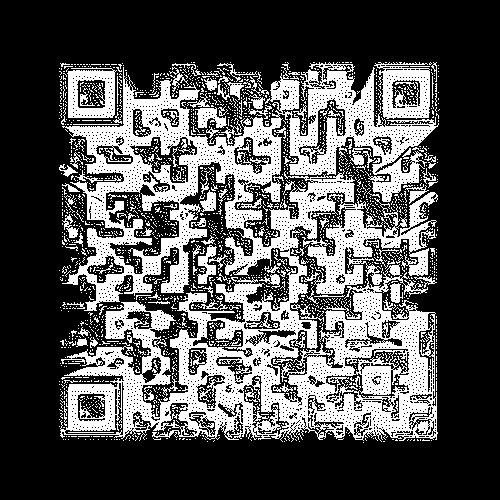
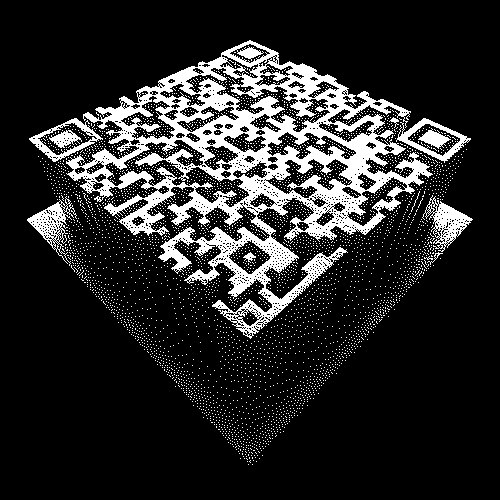
better image

diff --git a/src/retrospective.html b/src/retrospective.html
@@ -158,7 +158,7 @@
                     image: "./projects/unscanable.png",
                     title: "unscannable",
                     author: "calvin lang",
-                    text: "a 3 dimensional qr code that can't be scanned. its raised black modules disrupt machine vision, obscuring just enough of the background to prevent a phone from parsing it. the data is there, encoded & complete, but remains inaccessible to devices designed to read it."
+                    text: "a 3 dimensional qr code that can't be scanned (this image can be scanned, but the actual 3d printed version cannot). its raised black modules disrupt machine vision, obscuring just enough of the background to prevent a phone from parsing it. the data is there, encoded & complete, but remains inaccessible to devices designed to read it."
                 },
                 god_encoder: {
                     link: "https://clairefro.github.io/writing-of-the-god-playground/",
